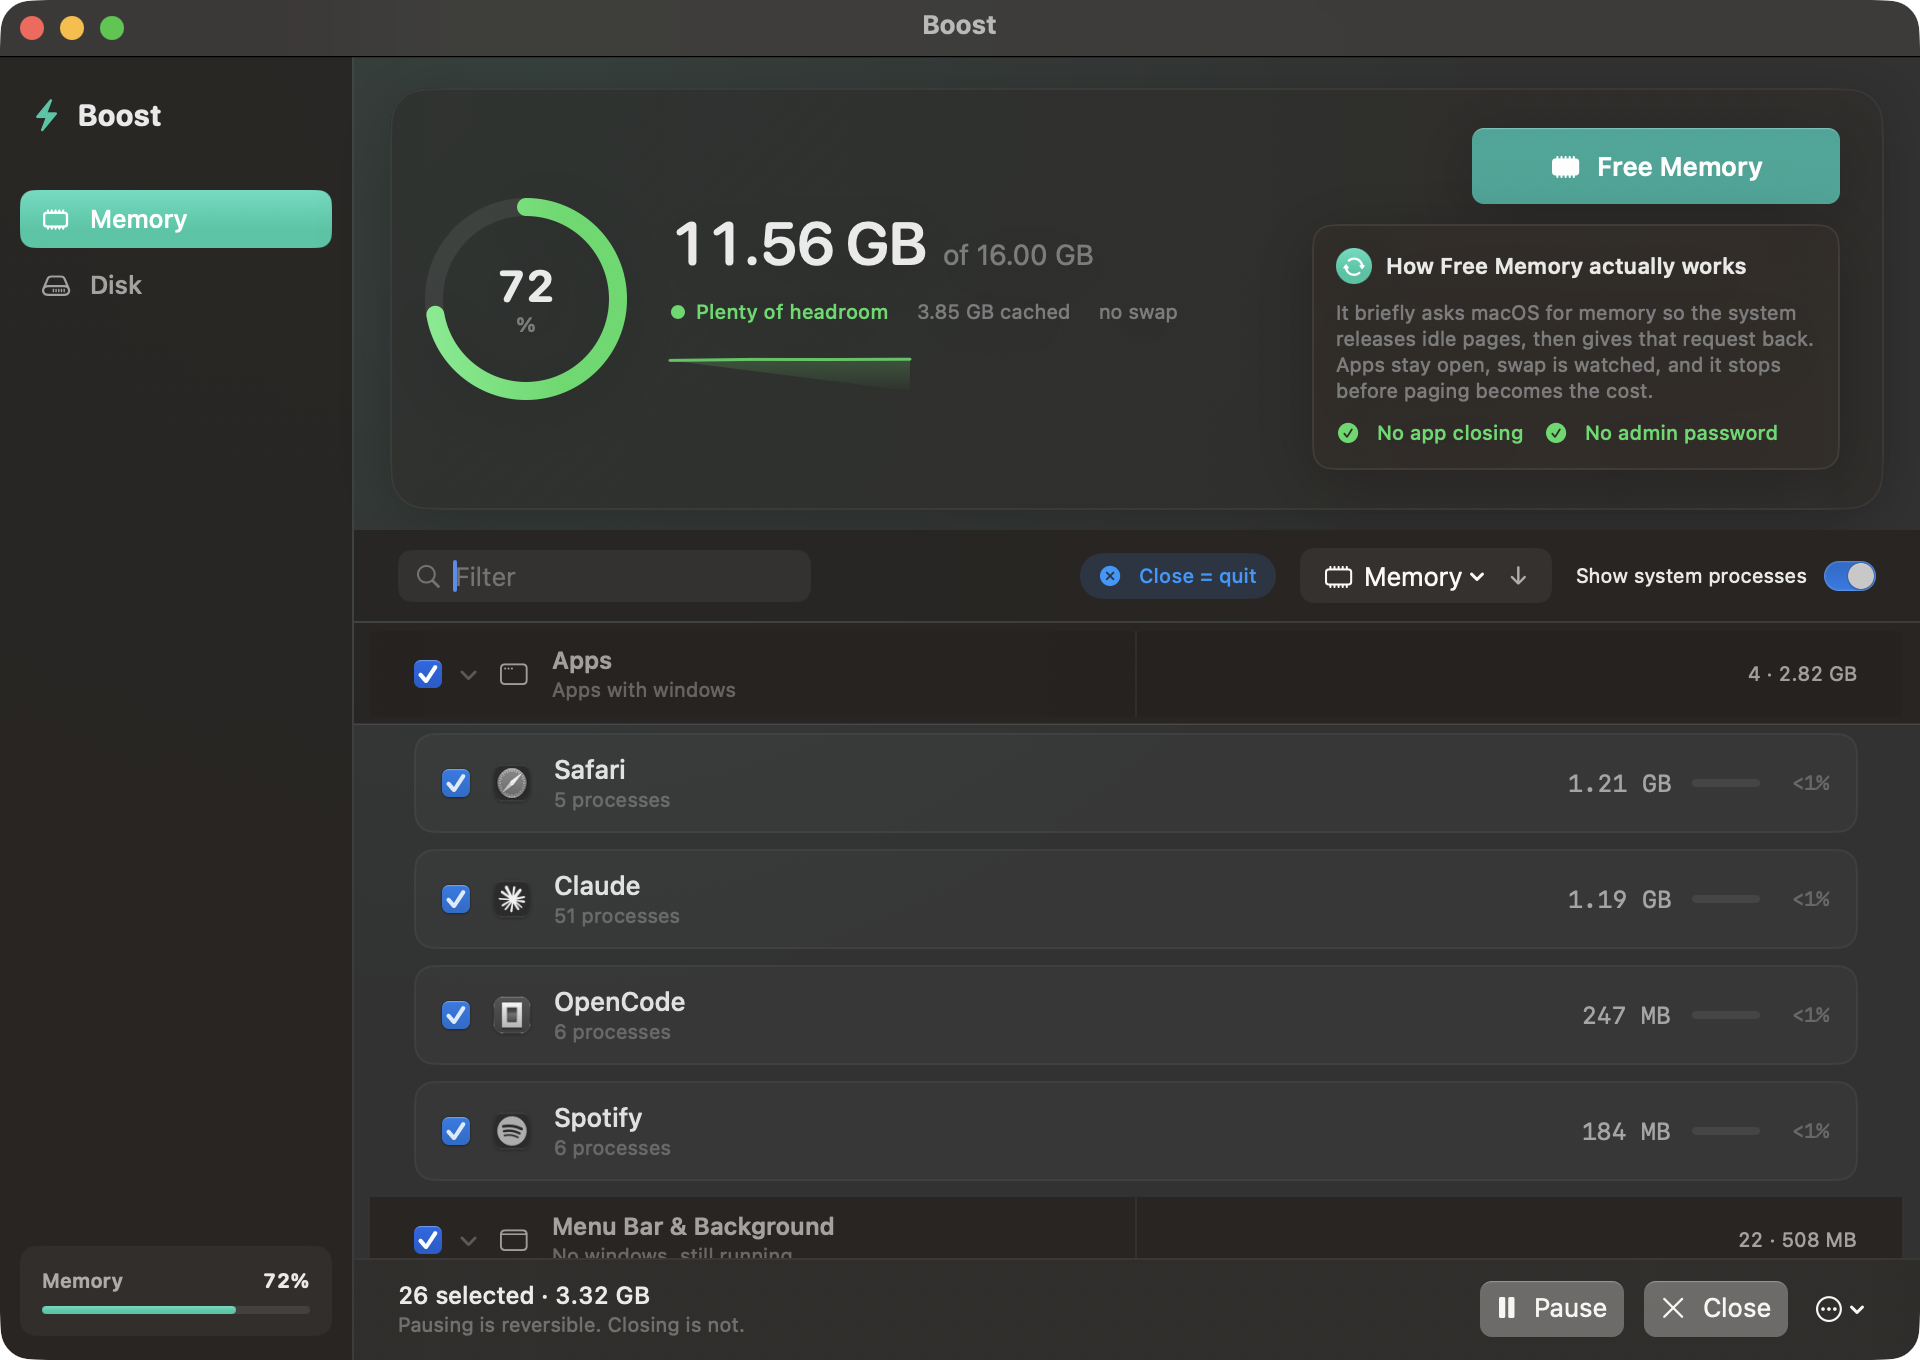
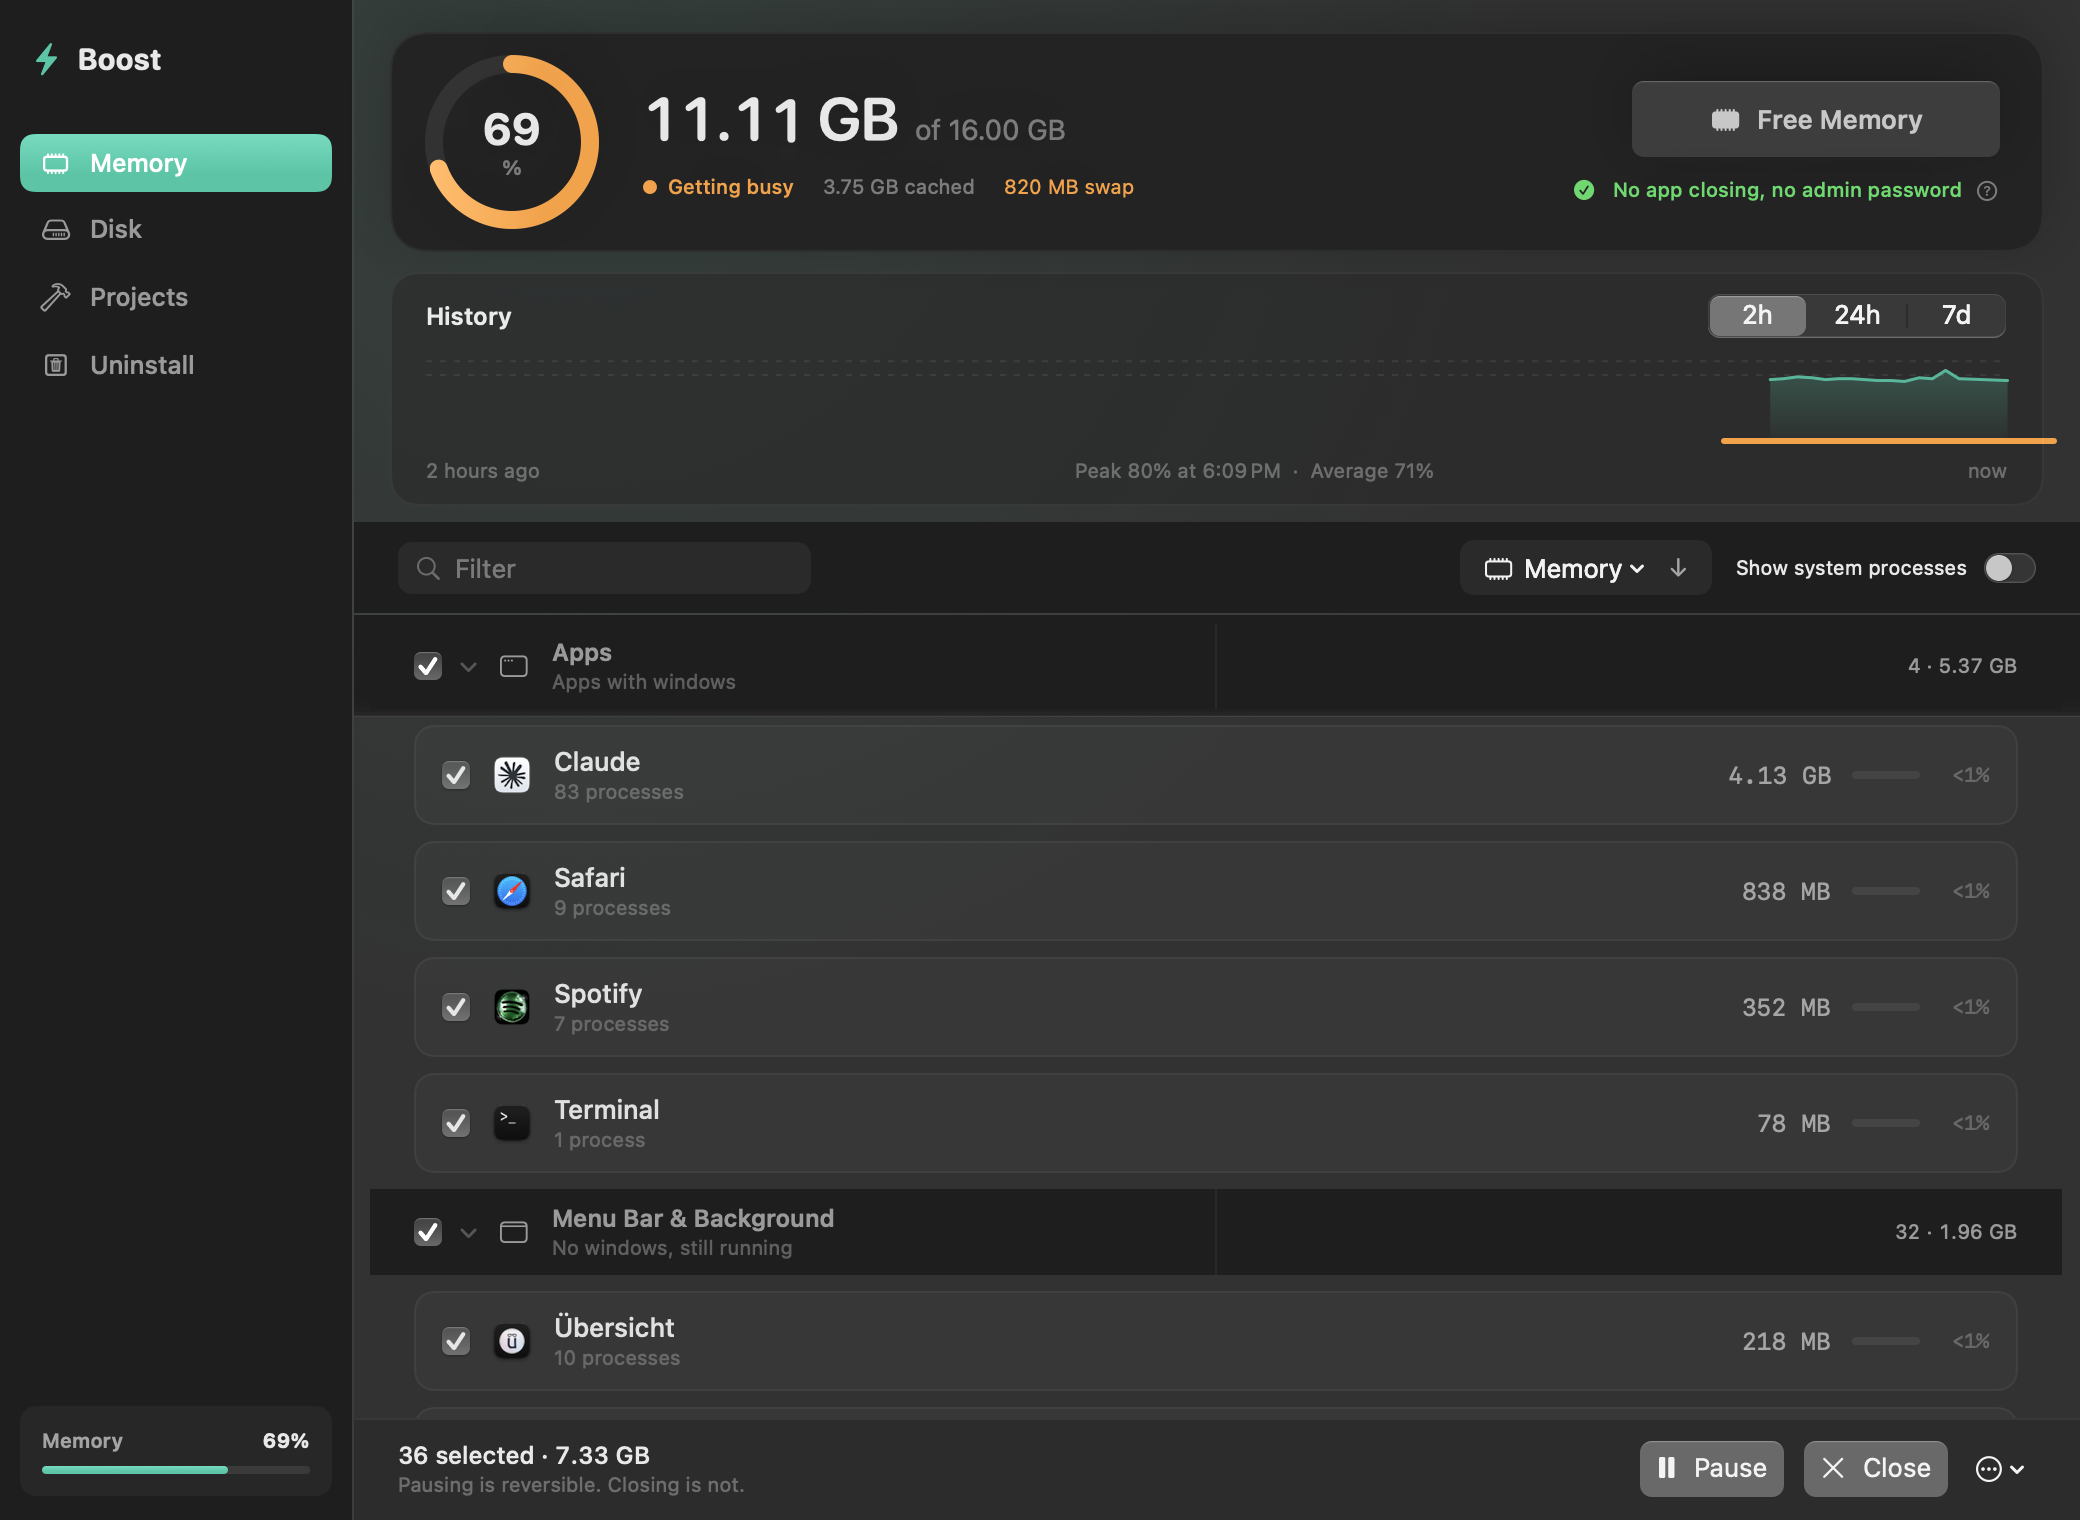
Refresh README screenshots from the real views

diff --git a/Sources/BoostKit/Snapshot.swift b/Sources/BoostKit/Snapshot.swift
@@ -23,6 +23,8 @@ public enum Snapshot {
         // Screenshots show the app as it looks once the welcome card is gone.
         UserDefaults.standard.set(true, forKey: "firstRunDismissed")
         UserDefaults.standard.set(30, forKey: "projectCutoffDays")
+        // Screenshots show the short range until a Mac has a day of readings.
+        UserDefaults.standard.set(HistoryRange.twoHours.rawValue, forKey: "historyRange")
 
         let engine = Engine.shared
         for _ in 0..<4 { engine.refresh() }
